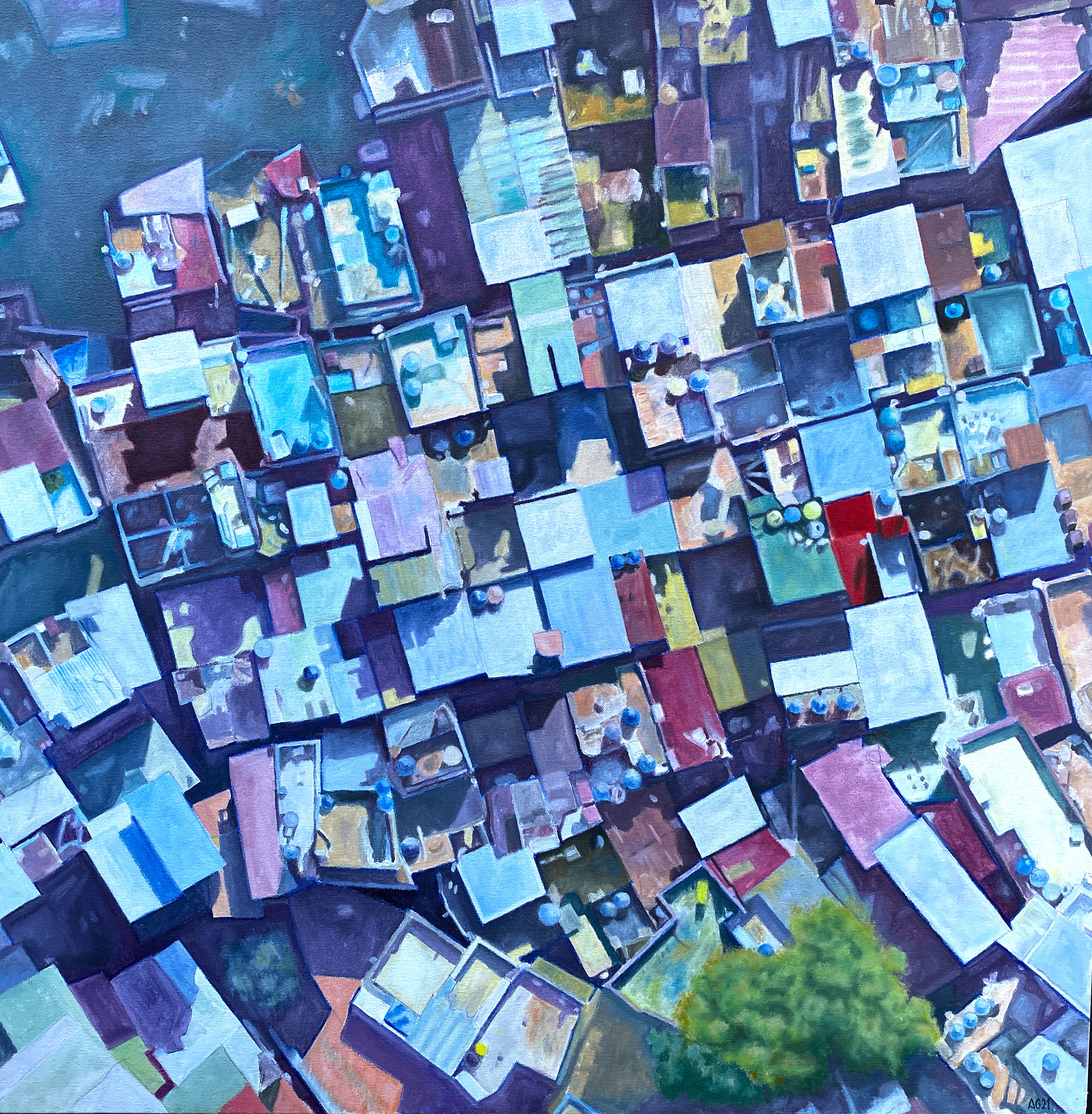
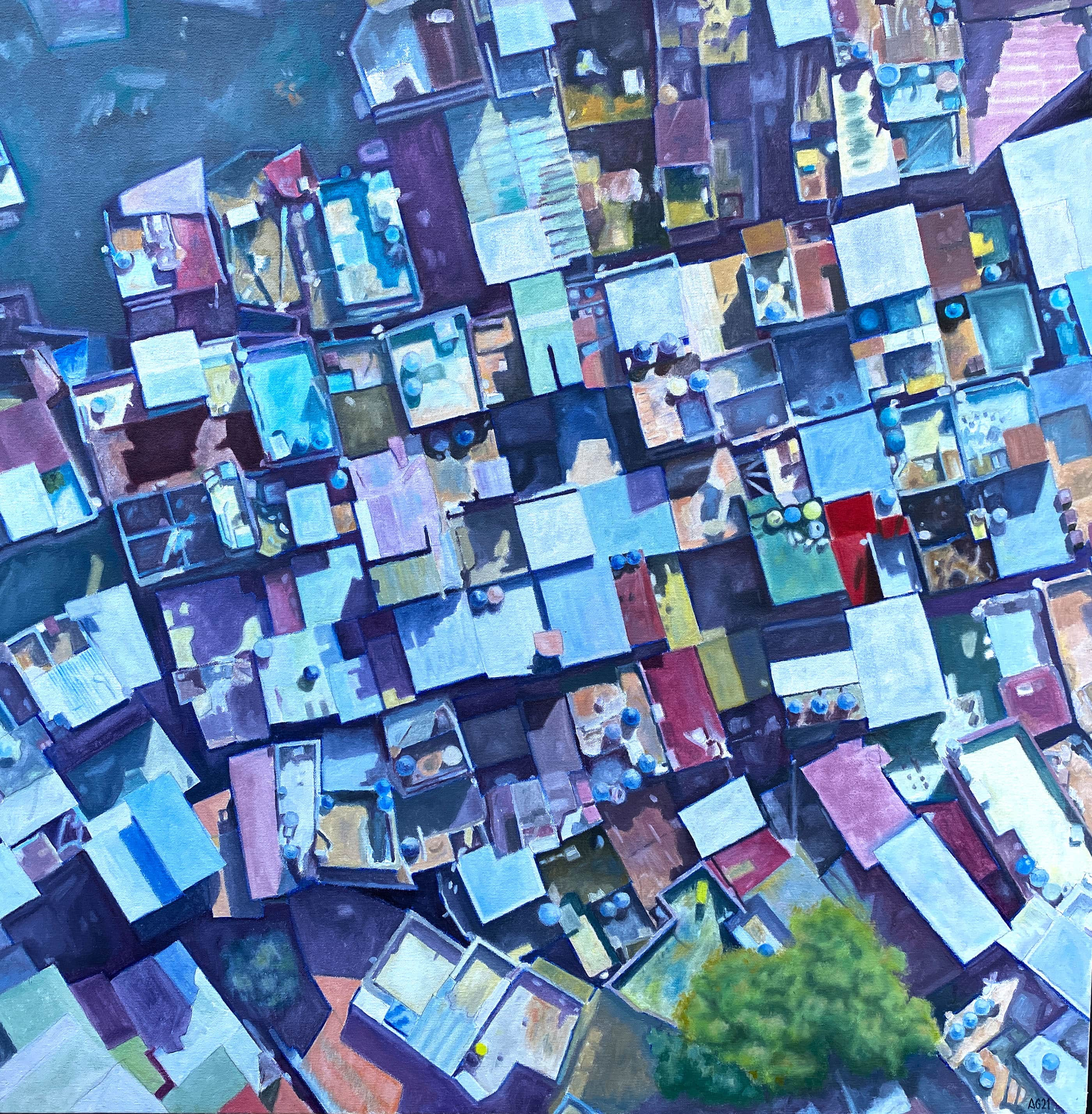
form update and photo reduction

diff --git a/src/pages/contact.js b/src/pages/contact.js
@@ -2,6 +2,8 @@ import React, { useState, useEffect } from 'react';
 import "../styles/contact.scss";
 import * as emailjs from 'emailjs-com';
 
+import { ToastContainer, toast } from 'react-toastify';
+import 'react-toastify/dist/ReactToastify.css';
 
 function Contact(props) {
     const [name, setName] = useState("");
@@ -9,53 +11,113 @@ function Contact(props) {
     const [phone, setPhone] = useState("");
     const [comments, setComments] = useState("");
 
+    const [nameAtt, setNameAtt] = useState("good");
+    const [emailAtt, setEmailAtt] = useState("good");
+    const [commentsAtt, setCommentsAtt] = useState("good");
+
     useEffect(() => {
         props.setHighlight(2);
-      }, []);
+      }, [props]);
+
+    function checkFields(){
+        if (name === ""){
+            setNameAtt("bad")
+        } else {
+            setNameAtt("")
+        }
+        if (email === ""){
+            setEmailAtt("bad")
+        } else {
+            setEmailAtt("")
+        }
+        if (comments === ""){
+            setCommentsAtt("bad")
+        } else {
+            setCommentsAtt("")
+        }
+        if ((comments === "") || (email === "") || (name === "")){
+            return false            
+        } else {
+            return true
+        }
+    }
 
     function sendEmail(e) {
         e.preventDefault();
 
-        emailjs.sendForm('service_q8qhhch', 'template_dt8qzor', e.target, 'user_60vpEeiX5kQ3umJUga8Yw')
-          .then((result) => {              
-              console.log(result.text);
-          }, (error) => {
+        if (checkFields()){
+            emailjs.sendForm('service_q8qhhch', 'template_dt8qzor', e.target, 'user_60vpEeiX5kQ3umJUga8Yw')
+            .then((result) => {              
+                console.log(result.text);
+            }, (error) => {
 
-              console.log(error.text);
-          });
-
+                console.log(error.text);
+            });
+            notify();
+            clearFields();
+        } else {
+            notifyError()
+        }
     }
 
+    function clearFields(){
+        setName("");
+        setEmail("");
+        setPhone("");
+        setComments("");
+    }
+    const notify = () => {
+        toast.dismiss()
+        toast.success('Thank You!', {             
+            position: "top-right",
+            autoClose: 3000,
+            hideProgressBar: true,
+            closeOnClick: true,
+            draggable: false,
+            progress: undefined,
+        })};
+
+    const notifyError = () => {
+        toast.dismiss()
+        toast.error('Please Check Missing Fields', { 
+            position: "top-right",
+            autoClose: 3000,
+            hideProgressBar: true,
+            closeOnClick: true,
+            draggable: false,
+            progress: undefined,
+        })};
 
     return (
 
         <>
+            <ToastContainer limit={1}></ToastContainer>
             <div className="page_container">
             <div className="header">
                 <h1>contact the artist</h1>
             </div>
-            <form
-
-                noValidate
+            <form                
                 onSubmit={sendEmail}
                 autoComplete="off"
             >
                 <div className="form_container">
                     <div className="form_inputs">
                         <input
+                            className={nameAtt}
                             name="name"
                             type="text"
-                            placeholder="name (required)"
-                            required
+                            placeholder="name (required)"                            
+                            value={name}
                             onChange={(n) => {
                                 setName(n.target.value);
                             }}
                         />
                         <input
+                            className={emailAtt}
                             name="email"
                             type="text"
                             placeholder="email (required)"
-                            required
+                            value={email}
                             onChange={(n) => {
                                 setEmail(n.target.value);
                             }}
@@ -64,6 +126,7 @@ function Contact(props) {
                             name="phone"
                             type="text"
                             placeholder="phone"
+                            value={phone}
                             onChange={(n) => {
                                 setPhone(n.target.value);
                             }}
@@ -73,9 +136,11 @@ function Contact(props) {
                     <div className="form_comments"
                     >
 
-                        <textarea         
+                        <textarea    
+                            className={commentsAtt}     
                             name="comments"
                             placeholder="comments (required)"
+                            value={comments}
                             onChange={(n) => {
                                 setComments(n.target.value);
                             }}>

diff --git a/src/styles/contact.scss b/src/styles/contact.scss
@@ -1,3 +1,4 @@
+
 textarea{
     resize: none;
 }
@@ -14,11 +15,12 @@ textarea{
         grid-template-columns: 1fr;
         gap: 10px;
         &>input{            
-         height: 40px;
+         height: 44px;
          border: 1px solid rgb(161, 161, 161);
          border-radius: 10px;
+         padding: 0 0 0 10px;
          &::placeholder{
-            padding: 10px;
+            font-family: 'Montserrat', sans-serif;
          }
         }
 
@@ -31,8 +33,9 @@ textarea{
             height: 170px;
             border-radius: 10px;
             border: 1px solid rgb(161, 161, 161);
+            padding: 10px;
             &::placeholder{
-                padding: 10px;
+                font-family: 'Montserrat', sans-serif;
              }
         }
     }
@@ -43,7 +46,7 @@ textarea{
     margin-top: 20px;
     &>input{
         padding: 10px 40px 10px 40px;
-        background-color: #e77320;
+        background-color: #234099;
         border: none;
         border-radius: 5px;
         color:whitesmoke;
@@ -65,4 +68,8 @@ textarea{
         }
     }
 
+  }
+
+  .bad {
+      border: 2px solid red !important;
   }

diff --git a/src/pages/home.js b/src/pages/home.js
@@ -58,8 +58,8 @@ function GetData() {
   return (
     <>
       <Carousel
-        NextIcon={<h1></h1>}
-        PrevIcon={<h1></h1>}
+        NextIcon={false}
+        PrevIcon={false}
         navButtonsProps={{
           // Change the colors and radius of the actual buttons. THIS STYLES BOTH BUTTONS
           style: {

diff --git a/src/pages/portfolio.js b/src/pages/portfolio.js
@@ -20,7 +20,7 @@ const override = css`
 export default function Portfolio(props) {
   useEffect(() => {
     props.setHighlight(1);
-  }, []);
+  }, [props]);
 
 
   return (
